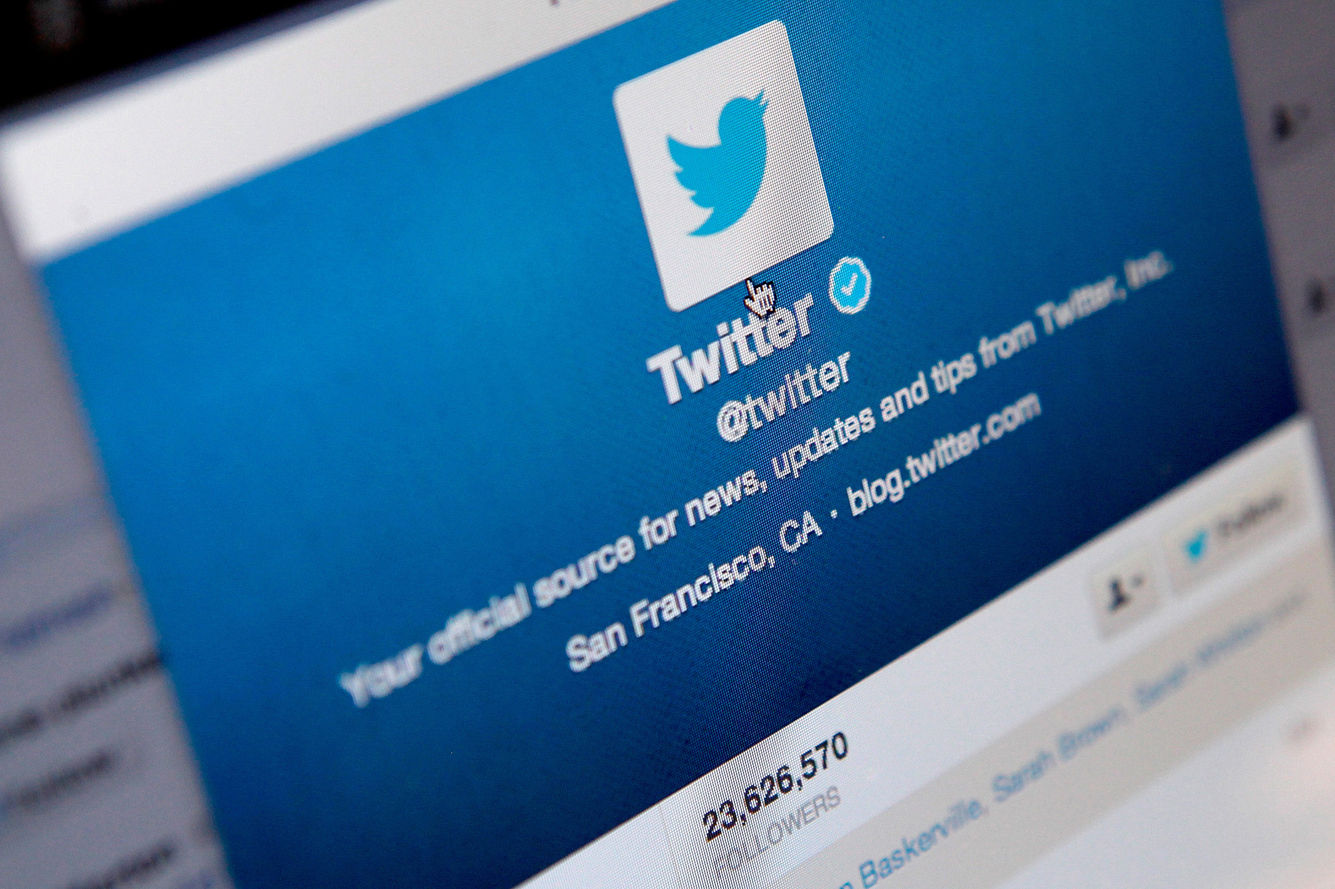
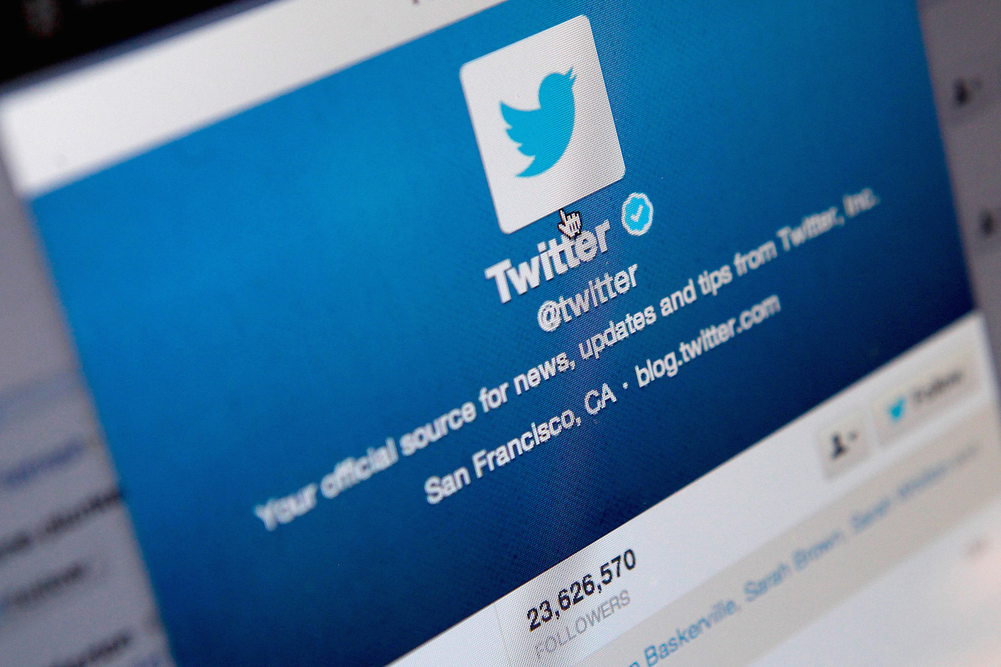
reduced image sizes

Changed region(s): [[0.552, 0.279, 0.6133, 0.713], [0.5213, 0.837, 0.5827, 1.0]]

diff --git a/css/style.css b/css/style.css
@@ -265,7 +265,7 @@ input{
 	min-height: 600px;
 	background: url('../img/twitter.jpg');
 	background-position: center top;
-	background-repeat: repeat-x;
+  background-size: cover;
 	color: white;
 }
 
@@ -413,7 +413,7 @@ input{
 	min-height: 350px;
 	background: url('../img/ski.jpg');
 	background-position: center top;
-	background-repeat: repeat-x;
+  background-size: cover;
 	color: white;
 }
 
@@ -445,7 +445,7 @@ input{
   min-height: 350px;
   background: url('../img/ski.jpg');
   background-position: center top;
-  background-repeat: repeat-x;
+  background-size: cover;
   color: #111;
 }
 
@@ -579,7 +579,7 @@ input{
 		padding-top: 85px;
 		width: 245px;
 	}
-	
+
 	header div.carousel{
 		padding-top: 19px;
 		margin-left: 35px;
